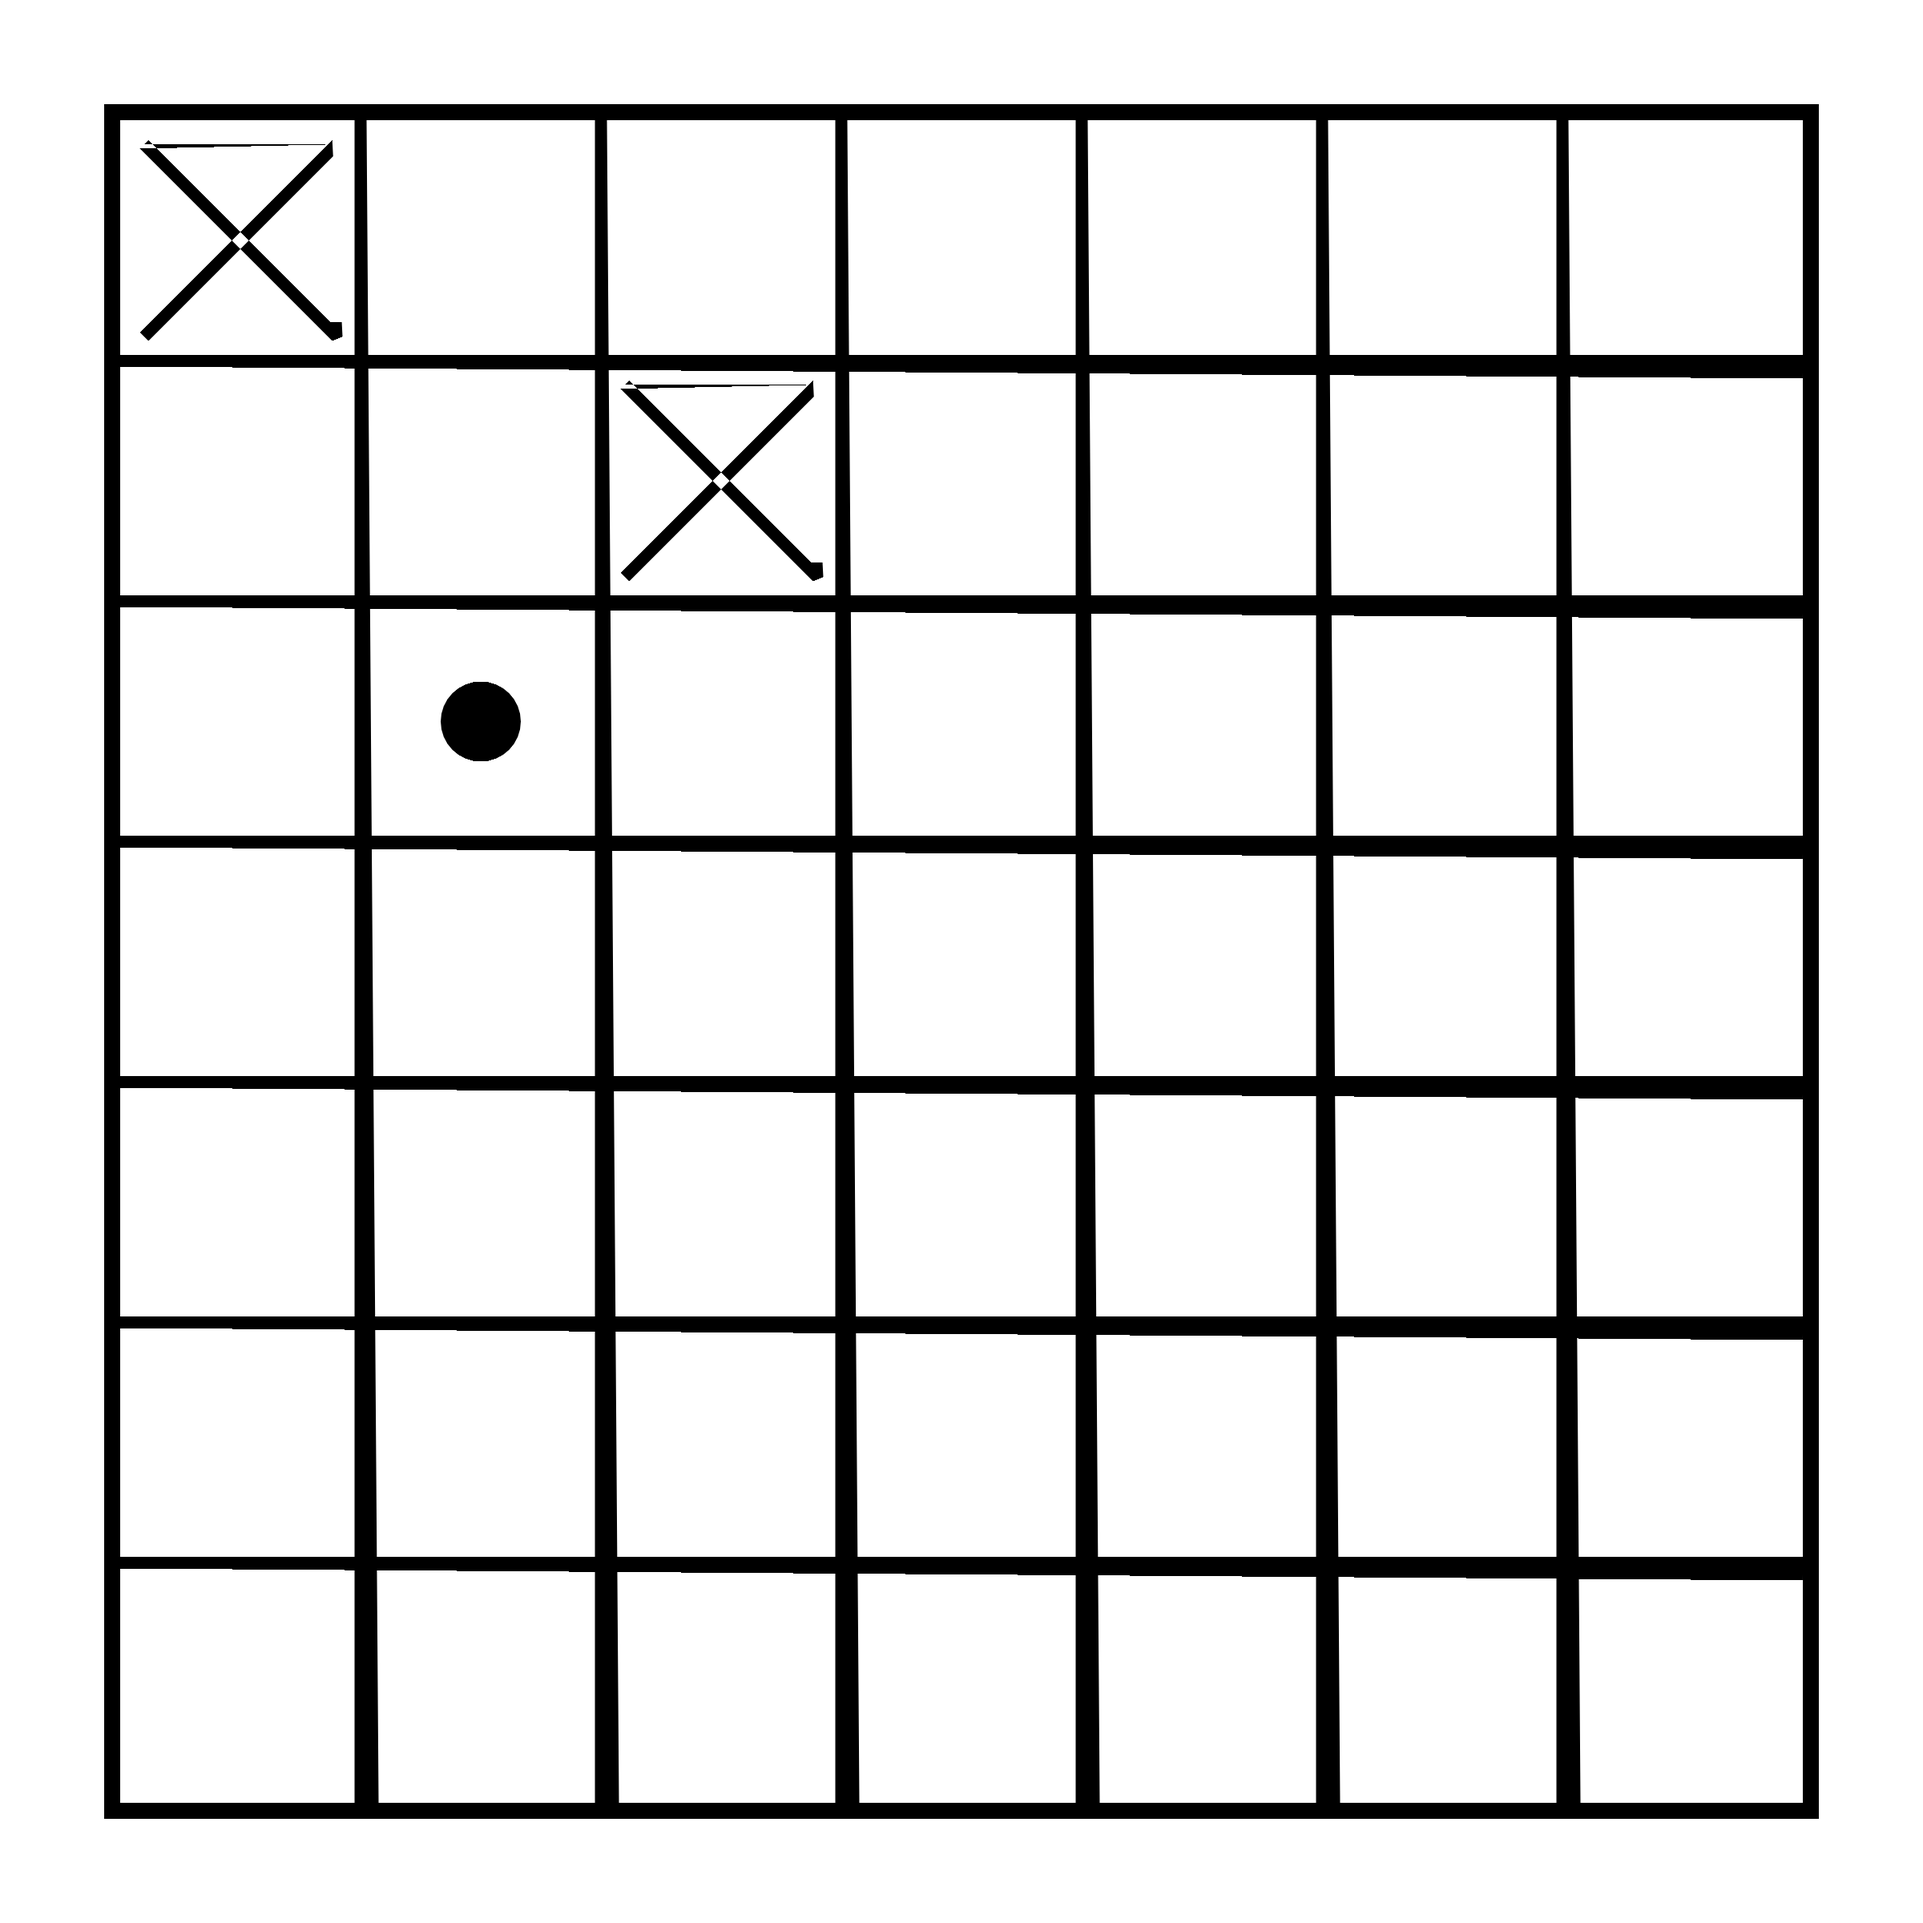
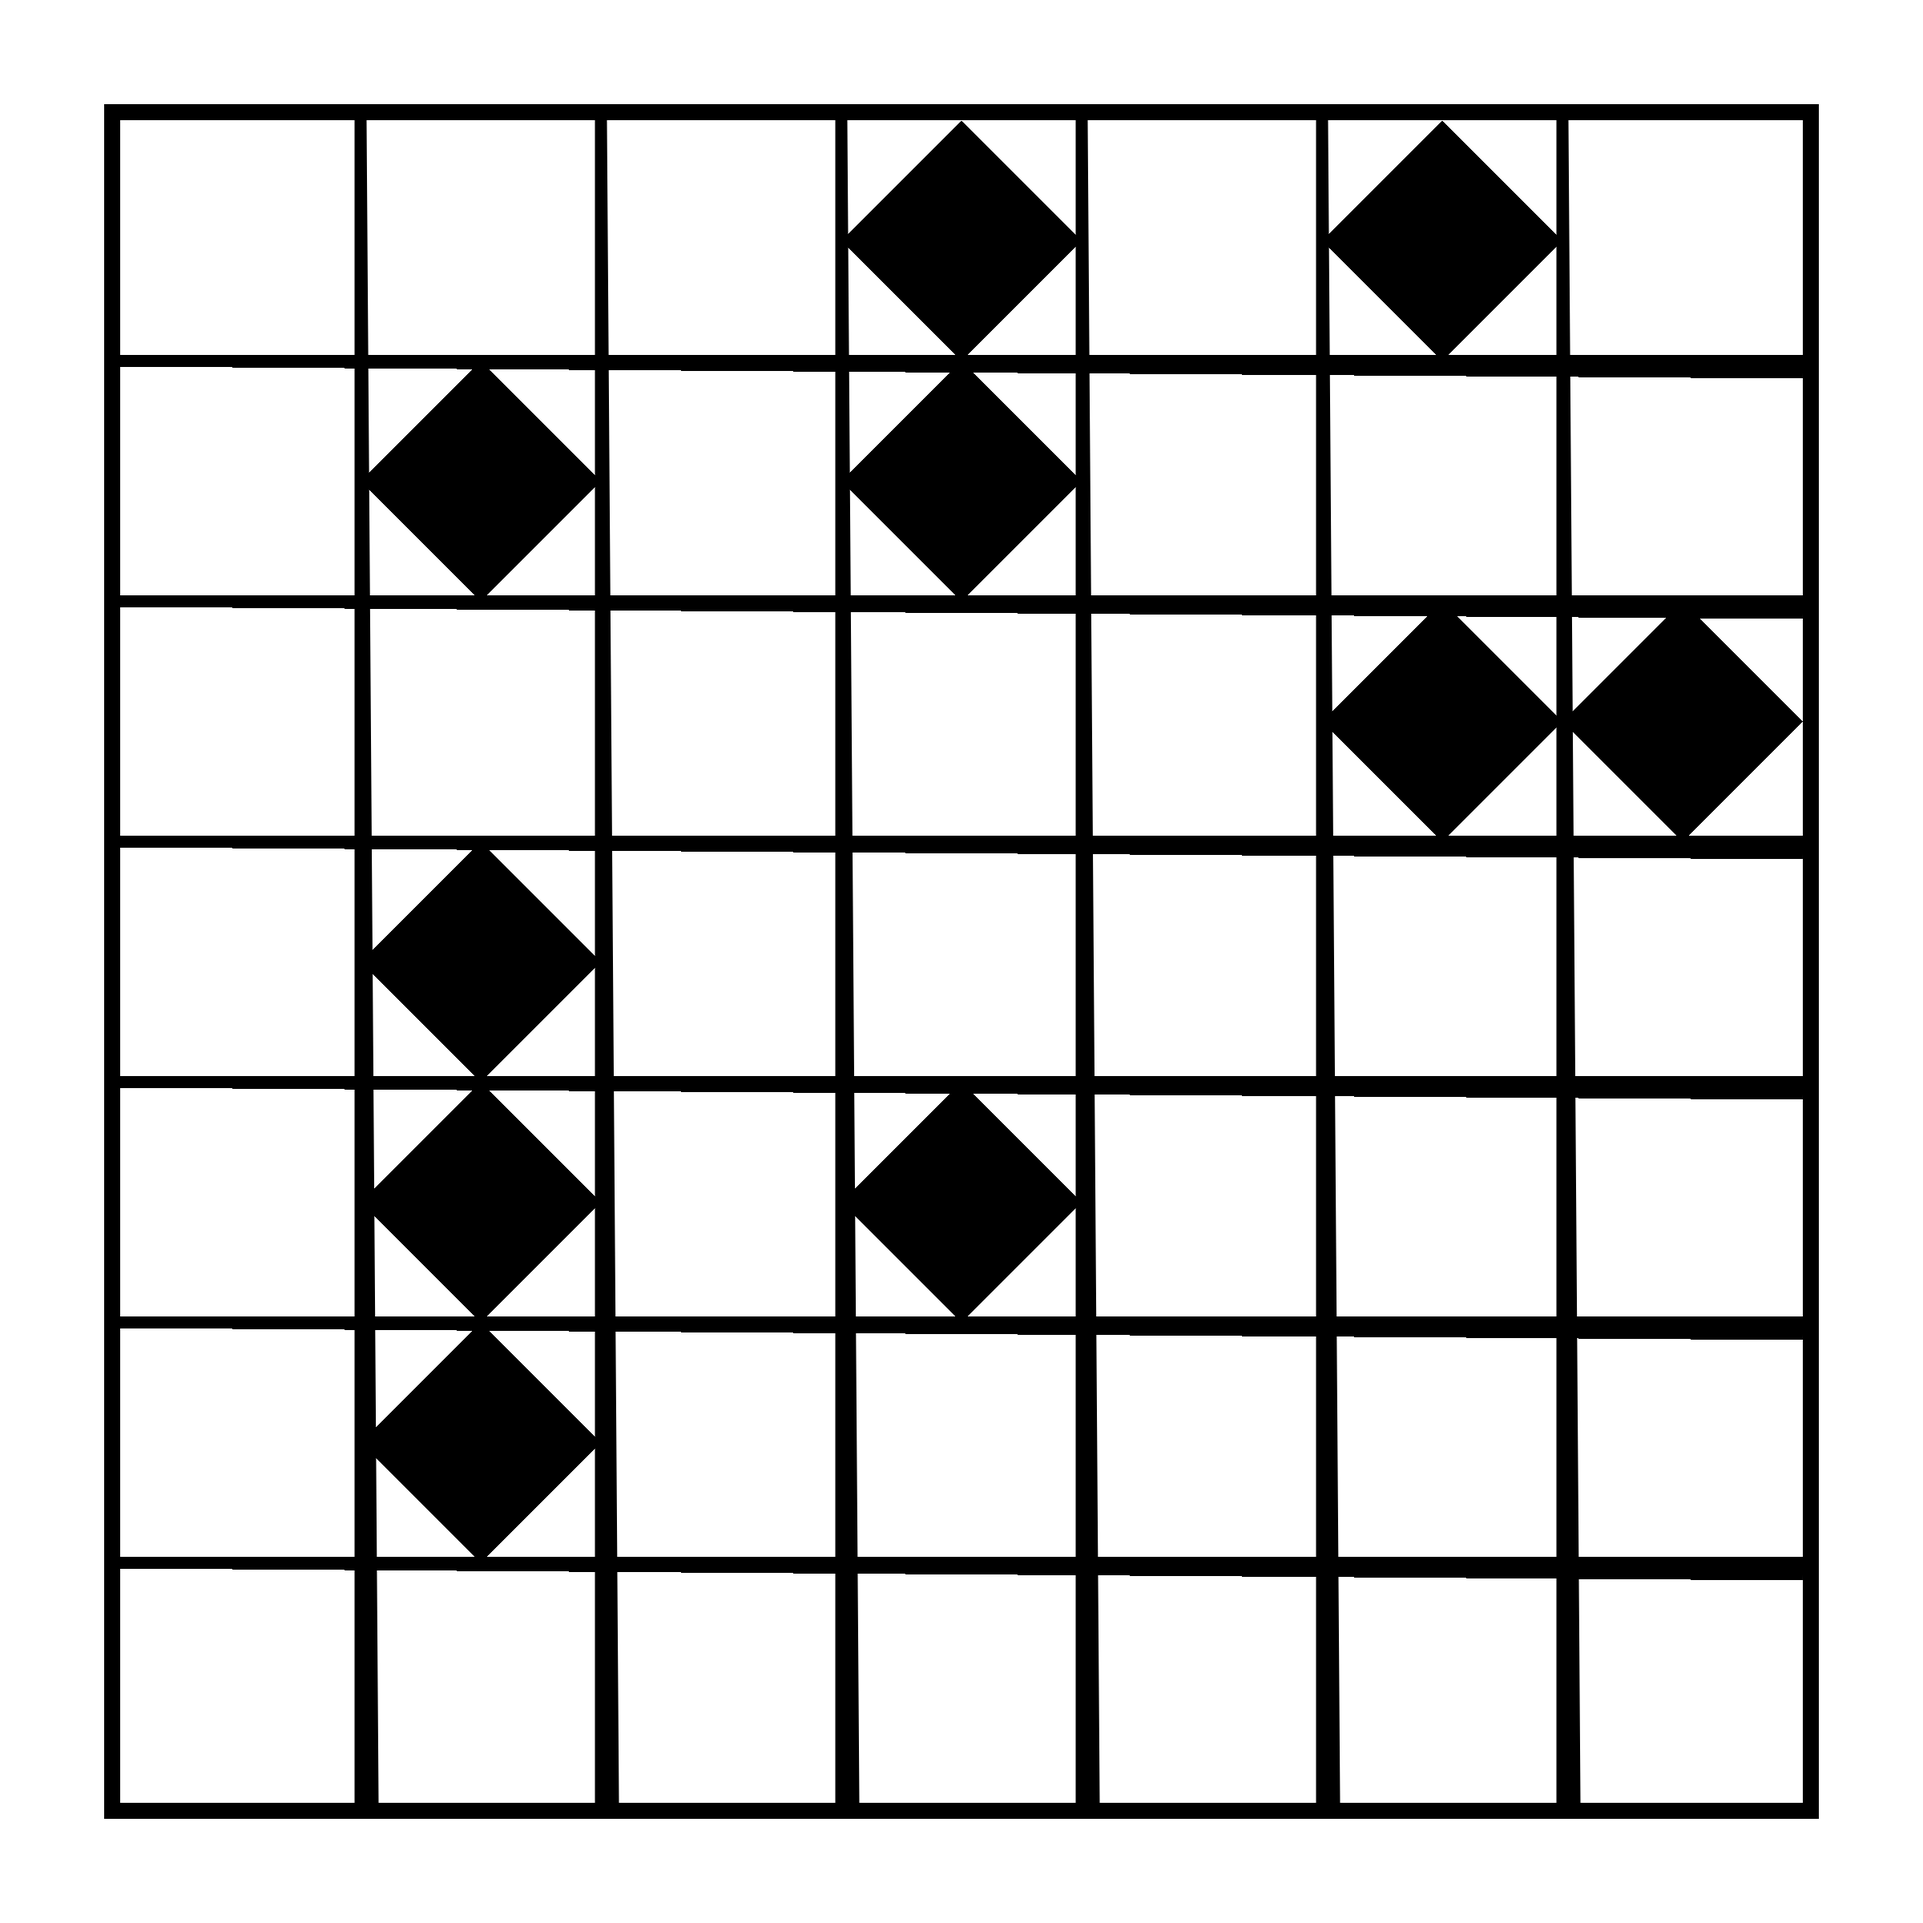
added the function of drawing ships on the playing field (closes #5)

diff --git a/lib/drawing.js b/lib/drawing.js
@@ -30,7 +30,7 @@ function row(ctx, i) {
 function encodPNGToStream(callback, resolve) {
   PImage.encodePNGToStream(img1, fs.createWriteStream('board.png'))
     .then(() => {
-      callback();
+      if (callback) callback();
       setTimeout(() => {
         resolve('result');
       }, 1000);
@@ -83,4 +83,29 @@ function drawingBadShot(callback, i, j) {
   return promise;
 }
 
-module.exports = { drawingGameBoard, drawingGoodShot, drawingBadShot };
+function drawingAllShips(array) {
+  const promise = new Promise((resolve) => {
+    for (let i = 1; i < 9; i++) {
+      for (let j = 1; j < 9; j++) {
+        [1, 2, 3].includes(array[i][j]) ? drawingShip(i, j) : null;
+      }
+    }
+    encodPNGToStream(null, resolve);
+  });
+  return promise;
+}
+
+function drawingShip(i, j) {
+  i -= 1;
+  j -= 1;
+  ctx.beginPath();
+  ctx.moveTo(300 + i * 300, 150 + j * 300);
+  ctx.lineTo(450 + i * 300, 300 + j * 300);
+  ctx.lineTo(300 + i * 300, 450 + j * 300);
+  ctx.lineTo(150 + i * 300, 300 + j * 300);
+  ctx.fill();
+  ctx.closePath();
+}
+
+module.exports = { drawingGameBoard, drawingGoodShot, drawingBadShot,
+  drawingAllShips };

diff --git a/main.js b/main.js
@@ -1,7 +1,7 @@
 const TelegramBot = require('node-telegram-bot-api');
 require('dotenv').config();
-const { drawingGameBoard, drawingGoodShot,
-  drawingBadShot } = require('./lib/drawing.js');
+const { drawingGameBoard, drawingGoodShot } = require('./lib/drawing.js');
+const { placeAllShips } = require('./lib/game.js');
 const token = process.env.MY_TELEGRAM_BOT_TOKEN;
 const chatId = process.env.MY_TELEGRAM_CHAT_ID;
 
@@ -21,9 +21,9 @@ function sendPicture() {
   console.log(chatId);
   bot.sendPhoto(chatId, './board.png');
 }
+
 // Test
 
 drawingGameBoard(sendPicture)
-  .then(() => drawingGoodShot(sendPicture, 1, 1))
-  .then(() => drawingBadShot(sendPicture, 2, 2))
-  .then(() => drawingGoodShot(sendPicture, 3, 2));
+  .then(() => placeAllShips(sendPicture));
+// .then(() => drawingGoodShot(sendPicture, 1, 1));

diff --git a/lib/game.js b/lib/game.js
@@ -1,3 +1,5 @@
+const {  drawingAllShips } = require('./drawing.js');
+
 const field = [];
 
 function fillField() {
@@ -98,7 +100,7 @@ function placeShip1() {
   }
 }
 
-function placeAllShips() {
+function placeAllShips(callback) {
   fillField();
 
   for (let i = 0; i < 3; i++) {
@@ -106,10 +108,15 @@ function placeAllShips() {
     (i < 2) ? placeShip2() : null;
     placeShip1();
   }
+
+  drawingAllShips(field, callback)
+    .then(() => callback());
 }
 
-placeAllShips();
+// placeAllShips();
 
-for (let i = 0; i < 9; i++) {
-  console.log(field[i].join(' '));
-}
+// for (let i = 0; i < 9; i++) {
+//   console.log(field[i].join(' '));
+// }
+
+module.exports = { placeAllShips };
